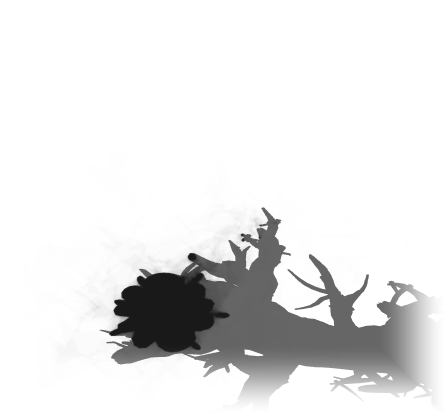
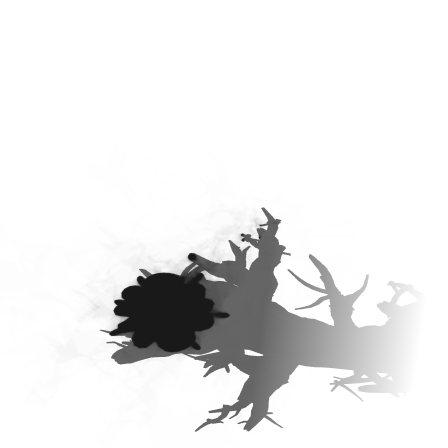
Sprite fix loop 2: crisp ending oak shadow, dark wet slate, tidier sheet layout

Changed region(s): [[0.2188, 0.4688, 0.9688, 0.9688]]

diff --git a/tools/ui-assets/gen_iso_nature.py b/tools/ui-assets/gen_iso_nature.py
@@ -45,6 +45,22 @@ def _fit_shadow(rd, margin):
     return rd
 
 
+def _end_shadow(rd, pivot, reach, fade):
+    """A long cast shadow keeps its crisp edges and simply ends: alpha only scales down linearly along the key direction
+    (a pure opacity ramp, the shape is never blurred), reaching zero `reach` px from the pivot, clear of the canvas."""
+    import isoforge as I
+    g = -I.KEY_WORLD[:2]
+    d = np.array((I._a * (g[0] - g[1]), -I._s * I._a * (g[0] + g[1])))
+    d /= np.linalg.norm(d)
+    sh = rd.shadow.copy()
+    h, w = sh.shape[:2]
+    s = (np.arange(w)[None, :] - pivot[0]) * d[0] + (np.arange(h)[:, None] - pivot[1]) * d[1]
+    k = np.clip((reach - s) / float(fade), 0.0, 1.0)
+    sh[..., 3] = np.floor(sh[..., 3] * k + 0.5).astype(np.uint8)
+    rd.shadow = sh
+    return rd
+
+
 def _poly(path, step):
     """A polyline with its corners cut once (a kink about 2 u across), resampled linearly about `step` apart."""
     p = np.asarray(path, dtype=np.float64)
@@ -163,7 +179,7 @@ def limb(path, r0, r1, name, ridges=0, amp=0.35, knot=0.0, flare=0.0, flare_len=
 # dead oak
 # ---------------------------------------------------------------------------------------------------
 
-OAK_SIZE = (448, 416)
+OAK_SIZE = (448, 448)
 OAK_PIVOT = (166, 311)
 SC = 1.15
 
@@ -281,7 +297,7 @@ def oak_scene() -> Scene:
 
 
 def render_oak():
-    return _fit_shadow(oak_scene().render(wear=0.35, grime=0.6, rust=0.0, dust=0.08, exposure=0.95, hard_alpha=False), 72)
+    return _end_shadow(oak_scene().render(wear=0.35, grime=0.6, rust=0.0, dust=0.08, exposure=0.95, hard_alpha=False), OAK_PIVOT, 256.0, 160.0)
 
 
 OBJECTS = {"dead_oak": ObjectSpec(OAK_SIZE, OAK_PIVOT, (render_oak,))}
@@ -459,9 +475,9 @@ OBJECTS["bramble"] = ObjectSpec(BR_SIZE, BR_PIVOT, (render_bramble,))
 SL_SIZE = (240, 192)
 SL_PIVOT = (115, 105)
 
-# grey-blue shale: a cool body, warm bare rock where the edges wear through, so the lit tops read warm
-SLATE = IsoMat((0.034, 0.040, 0.054), (0.020, 0.022, 0.026), 0.74, (0.062, 0.060, 0.060), (0.040, 0.040, 0.044), 0.8, sat_cap=0.30,
-               detail=(Waves3("slate.step", 7, 2.4, 5.0, 0.035), Waves3("slate.layer", 6, 0.4, 0.9, 0.012, (1.0, 1.0, 0.3))))
+# wet dark blue-grey slate: a cool damp body, only the worn edges show a slightly warmer bare rock
+SLATE = IsoMat((0.0090, 0.0118, 0.0180), (0.020, 0.022, 0.026), 0.70, (0.0200, 0.0185, 0.0160), (0.040, 0.040, 0.044), 0.7, sat_cap=0.30,
+               detail=(Waves3("slate.step", 7, 2.4, 5.0, 0.045), Waves3("slate.layer", 6, 0.4, 0.9, 0.016, (1.0, 1.0, 0.3))))
 
 
 def slate_scene() -> Scene:
@@ -482,6 +498,8 @@ def slate_scene() -> Scene:
             sl = convex(f"{name}{k}", rad * (1.0 - 0.17 * k) * (0.9 + 0.2 * rr.random()), 8, (1.25 * flat, 1.0, h / rad * 1.9))
             sl = sl.xform((0, 0, (rr.random() - 0.5) * 50), ((rr.random() - 0.5) * rad * 0.35, (rr.random() - 0.5) * rad * 0.3, z + h * 0.5))
             z += h * 1.15
+            # each plate its own darkness, lower plates darker: the dark seams and cleavage shadow between layers
+            sl.tint = np.full((len(sl.v), 3), (0.62 + 0.38 * rr.random()) * (1.0 - 0.14 * k))
             m = sl if m is None else m.merge(sl)
         m = m.xform((tilt[0], tilt[1], yaw))
         lo = float(m.v[:, 2].min())
@@ -509,7 +527,7 @@ def slate_scene() -> Scene:
 
 
 def render_slate():
-    return _fit_shadow(slate_scene().render(wear=0.25, grime=0.4, rust=0.0, dust=0.12, exposure=0.95, hard_alpha=False), 40)
+    return _fit_shadow(slate_scene().render(wear=0.25, grime=0.4, rust=0.0, dust=0.04, exposure=0.95, hard_alpha=False), 40)
 
 
 OBJECTS["slate_rocks"] = ObjectSpec(SL_SIZE, SL_PIVOT, (render_slate,))

diff --git a/tools/ui-assets/gen_iso.py b/tools/ui-assets/gen_iso.py
@@ -27,7 +27,7 @@ ORDER = ("rust_barrel", "dead_oak", "bramble", "slate_rocks", "tombstone", "bone
 BG = (200, 200, 200)  # #C8C8C8
 PAD = 20
 GAP = 28
-SHEET_COL_W = 1040  # the column beside the tallest object
+SHEET_COL_W = 1100  # the widest a row of stills may be beside the tallest object
 
 
 def load_objects() -> dict:
@@ -67,17 +67,19 @@ def render_all(names: list[str]) -> dict:
     return dict(zip(jobs, res))
 
 
-def _wrap(items: list, max_w: int) -> list:
-    """Greedy rows of (rgba, shadow) items no wider than max_w, GAP between neighbours."""
-    rows, cur, curw = [], [], 0
-    for it in items:
-        w = it[0].shape[1]
-        if cur and curw + GAP + w > max_w:
-            rows.append(cur)
-            cur, curw = [], 0
-        curw += w + (GAP if cur else 0)
-        cur.append(it)
-    return rows + [cur] if cur else rows
+def _wrap(items: list, max_w: int | None) -> list:
+    """Rows of (rgba, shadow) items in order: the fewest rows that each fit max_w (None = one row), with the items
+    spread evenly so the row counts differ by at most one."""
+    for n in range(1, len(items) + 1):
+        base, extra = divmod(len(items), n)
+        rows, i = [], 0
+        for r in range(n):
+            k = base + (r < extra)
+            rows.append(items[i : i + k])
+            i += k
+        if max_w is None or all(sum(e[0].shape[1] for e in r) + GAP * (len(r) - 1) <= max_w for r in rows):
+            return rows
+    return []
 
 
 def compose_sheet(entries: list[tuple], groups: list | None = None) -> np.ndarray:
@@ -98,7 +100,7 @@ def compose_sheet(entries: list[tuple], groups: list | None = None) -> np.ndarra
     frames = [f for v in items.values() if len(v) > 1 for f in v]
     hero = max(stills, key=lambda e: e[0].shape[0]) if stills else None
     stills = [e for e in stills if e is not hero]
-    rows = _wrap(stills, SHEET_COL_W) + _wrap(frames, SHEET_COL_W)
+    rows = _wrap(stills, SHEET_COL_W) + _wrap(frames, None)  # an animation is always one even row
     col_w = max((sum(e[0].shape[1] for e in r) + GAP * (len(r) - 1) for r in rows), default=0)
     row_h = [max(e[0].shape[0] for e in r) for r in rows]
     col_h = sum(row_h) + GAP * max(len(rows) - 1, 0)
